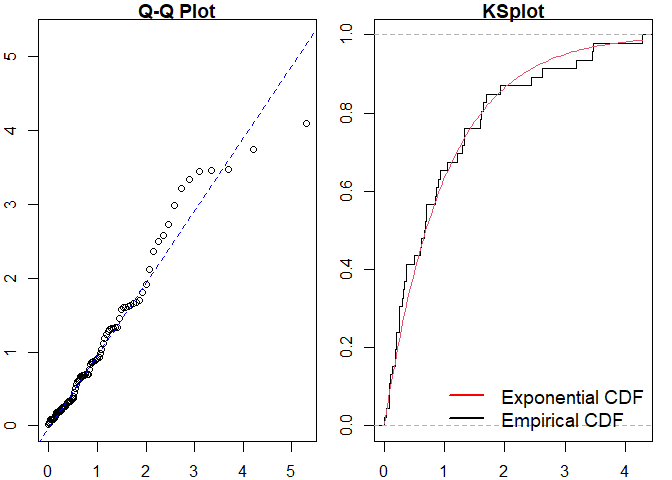
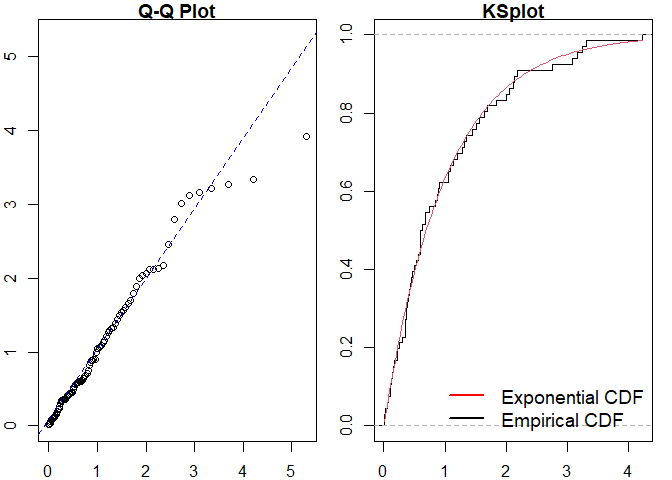
add joss details

diff --git a/README.md b/README.md
@@ -13,6 +13,7 @@ status](https://www.r-pkg.org/badges/version/ppdiag)](https://CRAN.R-project.org
 stable](https://img.shields.io/badge/lifecycle-stable-brightgreen.svg)](https://lifecycle.r-lib.org/articles/stages.html)
 [![Codecov test
 coverage](https://codecov.io/gh/OwenWard/ppdiag/branch/main/graph/badge.svg)](https://codecov.io/gh/OwenWard/ppdiag?branch=main)
+[![DOI](https://joss.theoj.org/papers/10.21105/joss.03133/status.svg)](https://doi.org/10.21105/joss.03133)
 <!-- badges: end -->
 
 `ppdiag` is an `R` package which provides a collection of tools which
@@ -54,14 +55,17 @@ library(ppdiag)
 hp_obj <- pp_hp(lambda0 = 0.2, alpha = 0.35, beta = 0.8)
 sim_hp <- pp_simulate(hp_obj, end = 200)
 sim_hp
-#>  [1]   1.251803   2.585288  15.660522  16.424361  19.852963  20.115283
-#>  [7]  36.749777  36.813473  54.757570  56.583400  59.564868  60.272463
-#> [13]  60.884895  84.771774  88.260163  88.423628  89.601849  90.061292
-#> [19]  90.370334  90.621778  90.694123  92.143117  93.395489  93.687936
-#> [25]  94.588896 113.160732 121.785596 122.646369 122.770419 123.035607
-#> [31] 125.550267 125.561861 130.788192 133.921184 137.518573 139.761132
-#> [37] 145.099685 155.317533 161.611297 176.427144 178.593037 178.923897
-#> [43] 179.170059 184.217712 184.422784 190.509601
+#>  [1]   2.186230   3.565304   3.902349   3.964491   6.925180   7.550459
+#>  [7]  11.661489  13.546240  14.708947  18.504127  21.884172  28.200651
+#> [13]  32.725824  32.948553  34.321960  34.336526  35.798993  42.058508
+#> [19]  49.942025  54.593947  63.020692  63.910373  64.643690  65.032153
+#> [25]  65.657198  75.292857  76.692171  79.951074  81.007021  88.885178
+#> [31]  90.571610 109.024238 109.833981 111.815871 124.703088 125.471931
+#> [37] 125.570883 127.091988 129.062818 129.689934 130.604303 132.338776
+#> [43] 140.664296 146.341383 151.822010 152.475271 152.680939 153.386389
+#> [49] 153.642172 153.962057 153.982753 154.104694 154.112463 154.172057
+#> [55] 154.723903 157.320462 170.445160 172.078151 172.694431 173.266803
+#> [61] 185.638459 185.807981 185.928880 186.485358 198.104800 198.281929
 ```
 
 We can readily evaluate the fit of a homogeneous Poisson process to this
@@ -72,7 +76,7 @@ est_hpp <- fithpp(sim_hp)
 est_hpp
 #> Homogeneous Poisson Process 
 #> lambda  
-#> events 1.251803 2.585288 15.66052 16.42436 19.85296 20.11528 36.74978 36.81347 54.75757 56.5834 59.56487 60.27246 60.8849 84.77177 88.26016 88.42363 89.60185 90.06129 90.37033 90.62178 90.69412 92.14312 93.39549 93.68794 94.5889 113.1607 121.7856 122.6464 122.7704 123.0356 125.5503 125.5619 130.7882 133.9212 137.5186 139.7611 145.0997 155.3175 161.6113 176.4271 178.593 178.9239 179.1701 184.2177 184.4228 190.5096
+#> events 2.18623 3.565304 3.902349 3.964491 6.92518 7.550459 11.66149 13.54624 14.70895 18.50413 21.88417 28.20065 32.72582 32.94855 34.32196 34.33653 35.79899 42.05851 49.94203 54.59395 63.02069 63.91037 64.64369 65.03215 65.6572 75.29286 76.69217 79.95107 81.00702 88.88518 90.57161 109.0242 109.834 111.8159 124.7031 125.4719 125.5709 127.092 129.0628 129.6899 130.6043 132.3388 140.6643 146.3414 151.822 152.4753 152.6809 153.3864 153.6422 153.9621 153.9828 154.1047 154.1125 154.1721 154.7239 157.3205 170.4452 172.0782 172.6944 173.2668 185.6385 185.808 185.9289 186.4854 198.1048 198.2819
 
 pp_diag(est_hpp, events = sim_hp)
 ```
@@ -86,7 +90,7 @@ pp_diag(est_hpp, events = sim_hp)
     #>  One-sample Kolmogorov-Smirnov test
     #> 
     #> data:  r
-    #> D = 0.22652, p-value = 0.01481
+    #> D = 0.19214, p-value = 0.01312
     #> alternative hypothesis: two-sided
 
 ``` r
@@ -96,13 +100,13 @@ pp_diag(hp_est, events = sim_hp)
 
 <img src="man/figures/README-fit_hp-1.png" width="75%" />
 
-    #> Raw residual: -0.00519921
-    #> Pearson residual: 0.06798623
+    #> Raw residual: 0.002371998
+    #> Pearson residual: -0.1398567
     #> 
     #>  One-sample Kolmogorov-Smirnov test
     #> 
     #> data:  r
-    #> D = 0.10346, p-value = 0.67
+    #> D = 0.064213, p-value = 0.9321
     #> alternative hypothesis: two-sided
 
 ## Markov Modulated Hawkes Process Example
@@ -143,12 +147,12 @@ pp_diag(est_hpp,mmhp_events$events)
 
     #> 
     #> Raw residual: -1
-    #> Pearson residual: -1.684459
+    #> Pearson residual: -1.419605
     #> 
     #>  One-sample Kolmogorov-Smirnov test
     #> 
     #> data:  r
-    #> D = 0.27786, p-value = 0.0006626
+    #> D = 0.16743, p-value = 0.1078
     #> alternative hypothesis: two-sided
 
 Similarly for a Hawkes process.
@@ -160,13 +164,13 @@ pp_diag(est_hp,mmhp_events$events)
 
 <img src="man/figures/README-fit_hp_to_mmhp-1.png" width="75%" />
 
-    #> Raw residual: -0.6181052
-    #> Pearson residual: -2.221529
+    #> Raw residual: -0.8106565
+    #> Pearson residual: -1.359046
     #> 
     #>  One-sample Kolmogorov-Smirnov test
     #> 
     #> data:  r
-    #> D = 0.078371, p-value = 0.8949
+    #> D = 0.077559, p-value = 0.9016
     #> alternative hypothesis: two-sided
 
 We can then compare to the true point process model.
@@ -177,13 +181,13 @@ pp_diag(mmhp_obj, mmhp_events$events)
 
 <img src="man/figures/README-fit_mmhp-1.png" width="75%" />
 
-    #> Raw residual: 5.381804
-    #> Pearson residual: 2.85359
+    #> Raw residual: 11.18297
+    #> Pearson residual: 20.98349
     #> 
     #>  One-sample Kolmogorov-Smirnov test
     #> 
     #> data:  r
-    #> D = 0.12924, p-value = 0.344
+    #> D = 0.10866, p-value = 0.5595
     #> alternative hypothesis: two-sided
 
 # Getting help and contributing
@@ -198,5 +202,8 @@ reach out with any questions.
 
 # References
 
+-   Sun et al., (2021). ppdiag: Diagnostic Tools for Temporal Point
+    Processes. Journal of Open Source Software, 6(61), 3133,
+    <https://doi.org/10.21105/joss.03133>
 -   Wu et al., Diagnostics and Visualization of Point Process Models for
     Event Times on a Social Network, <https://arxiv.org/abs/2001.09359>
